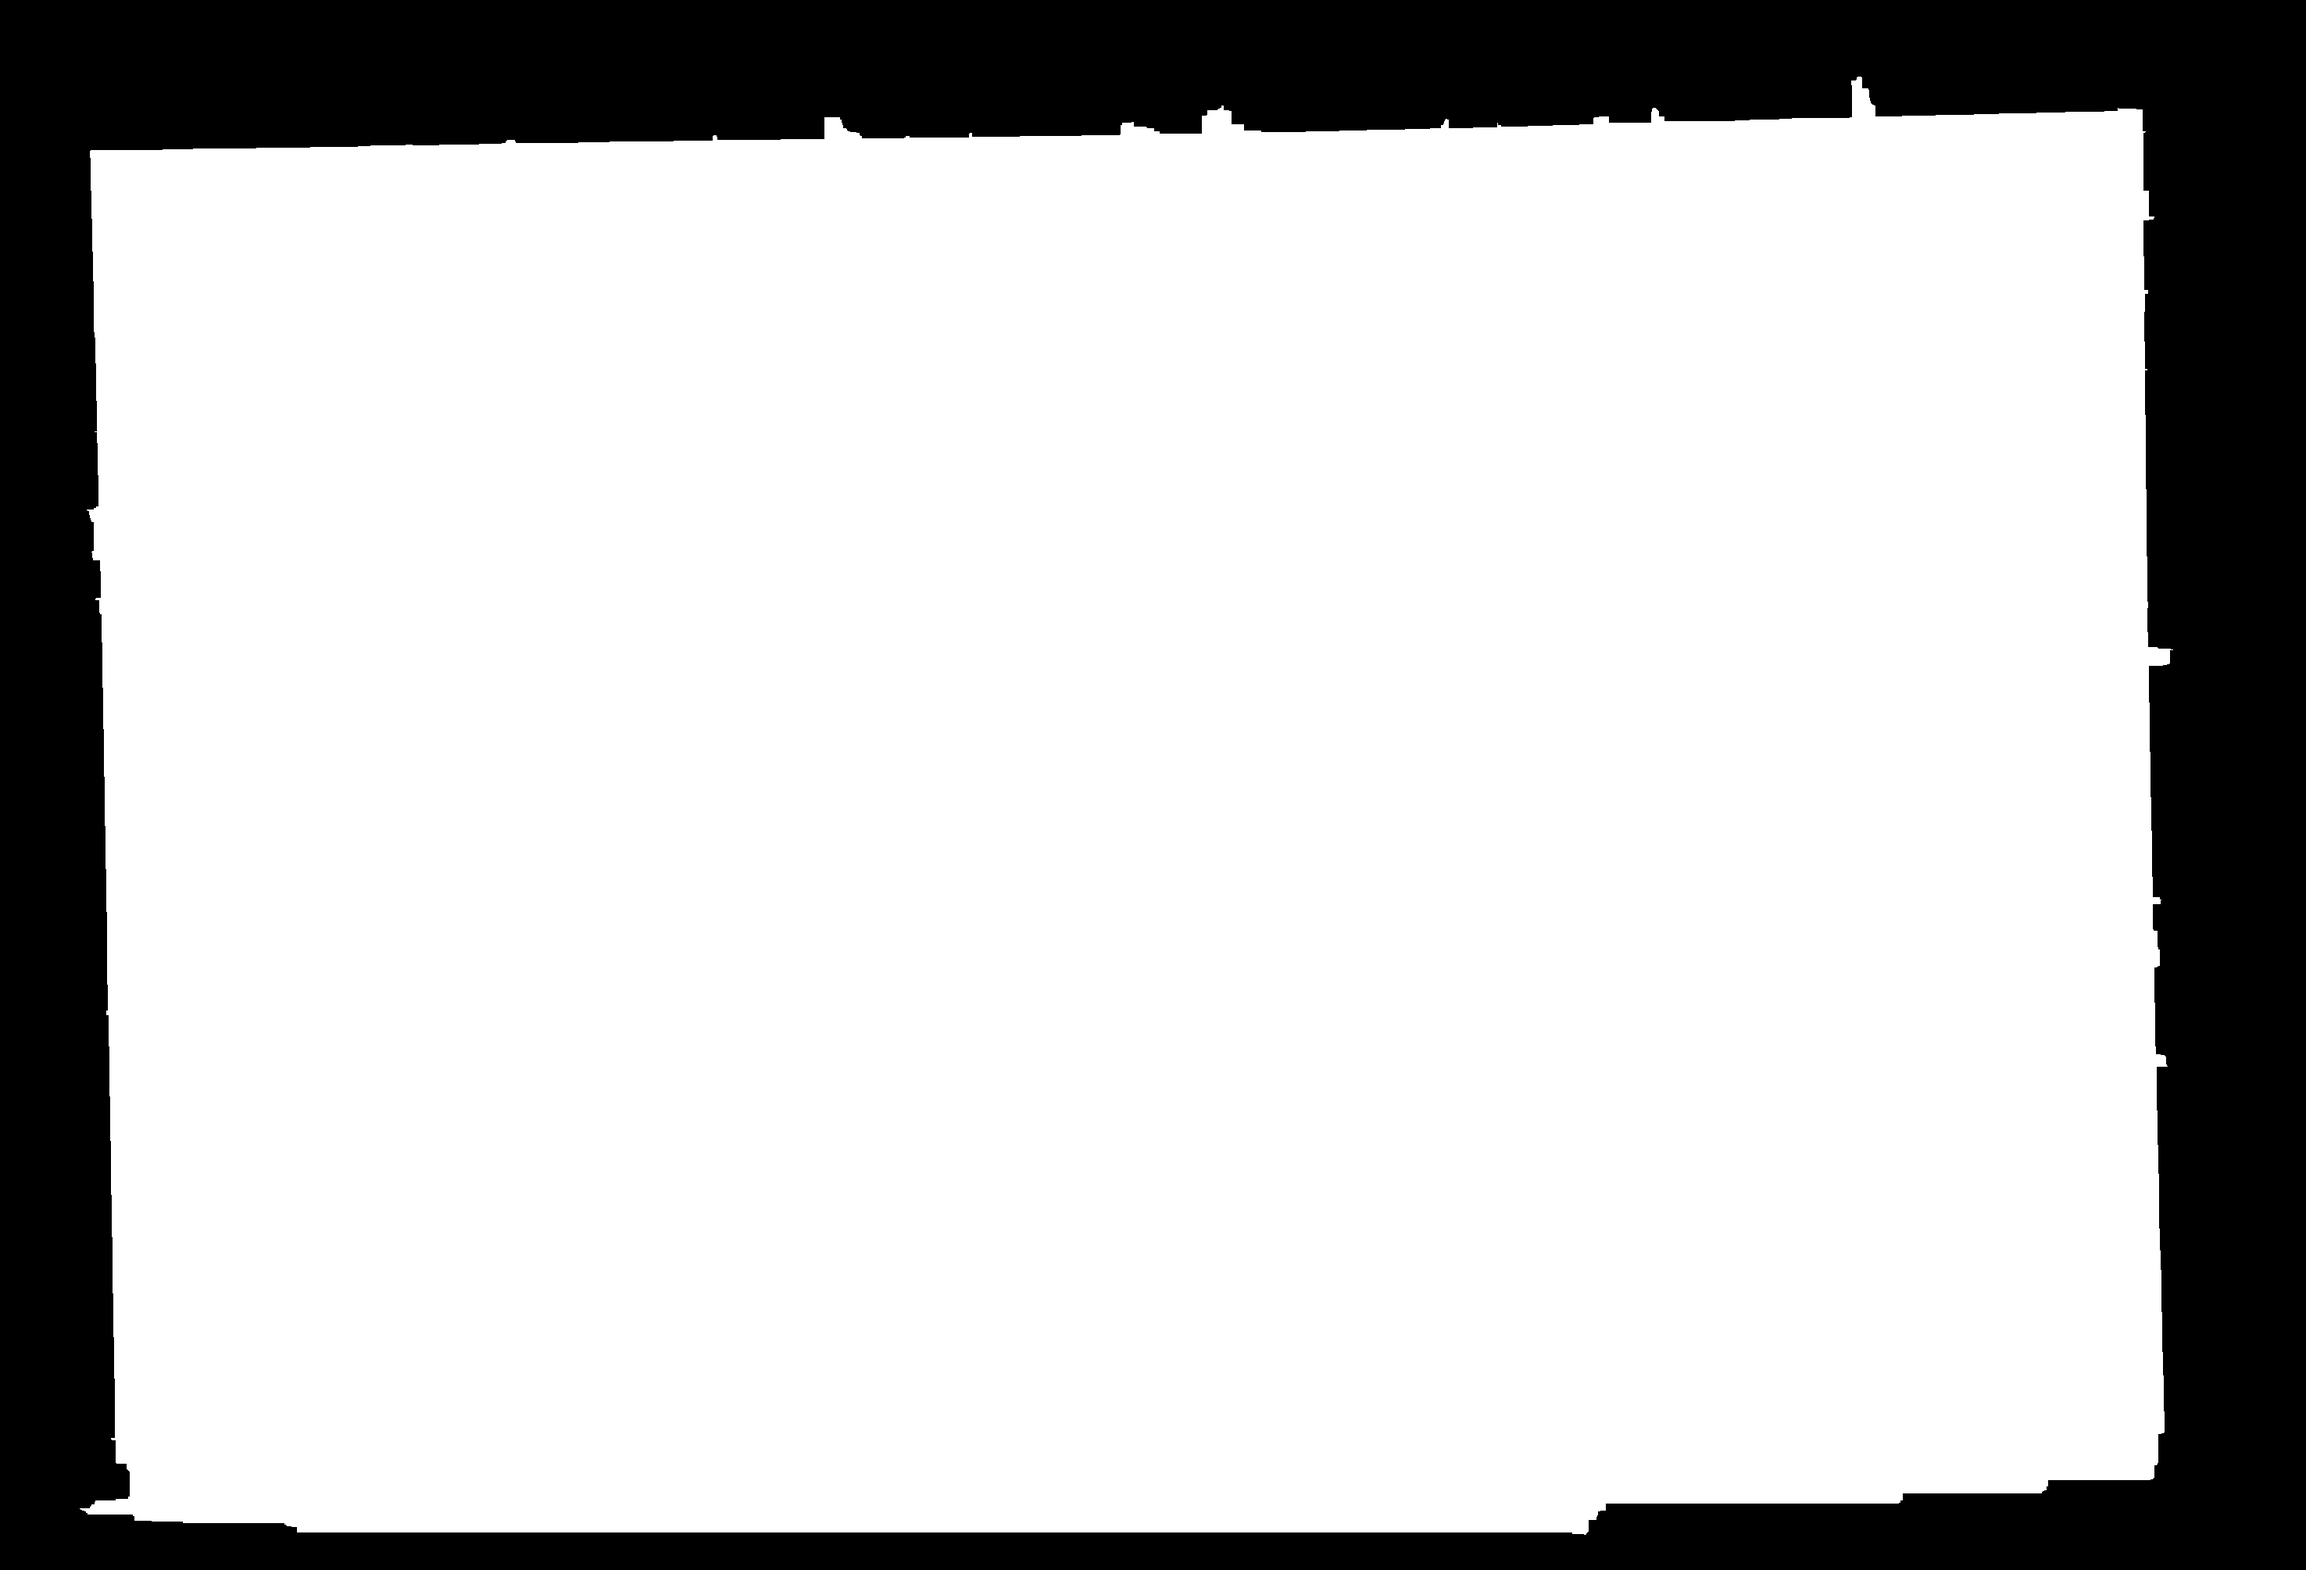
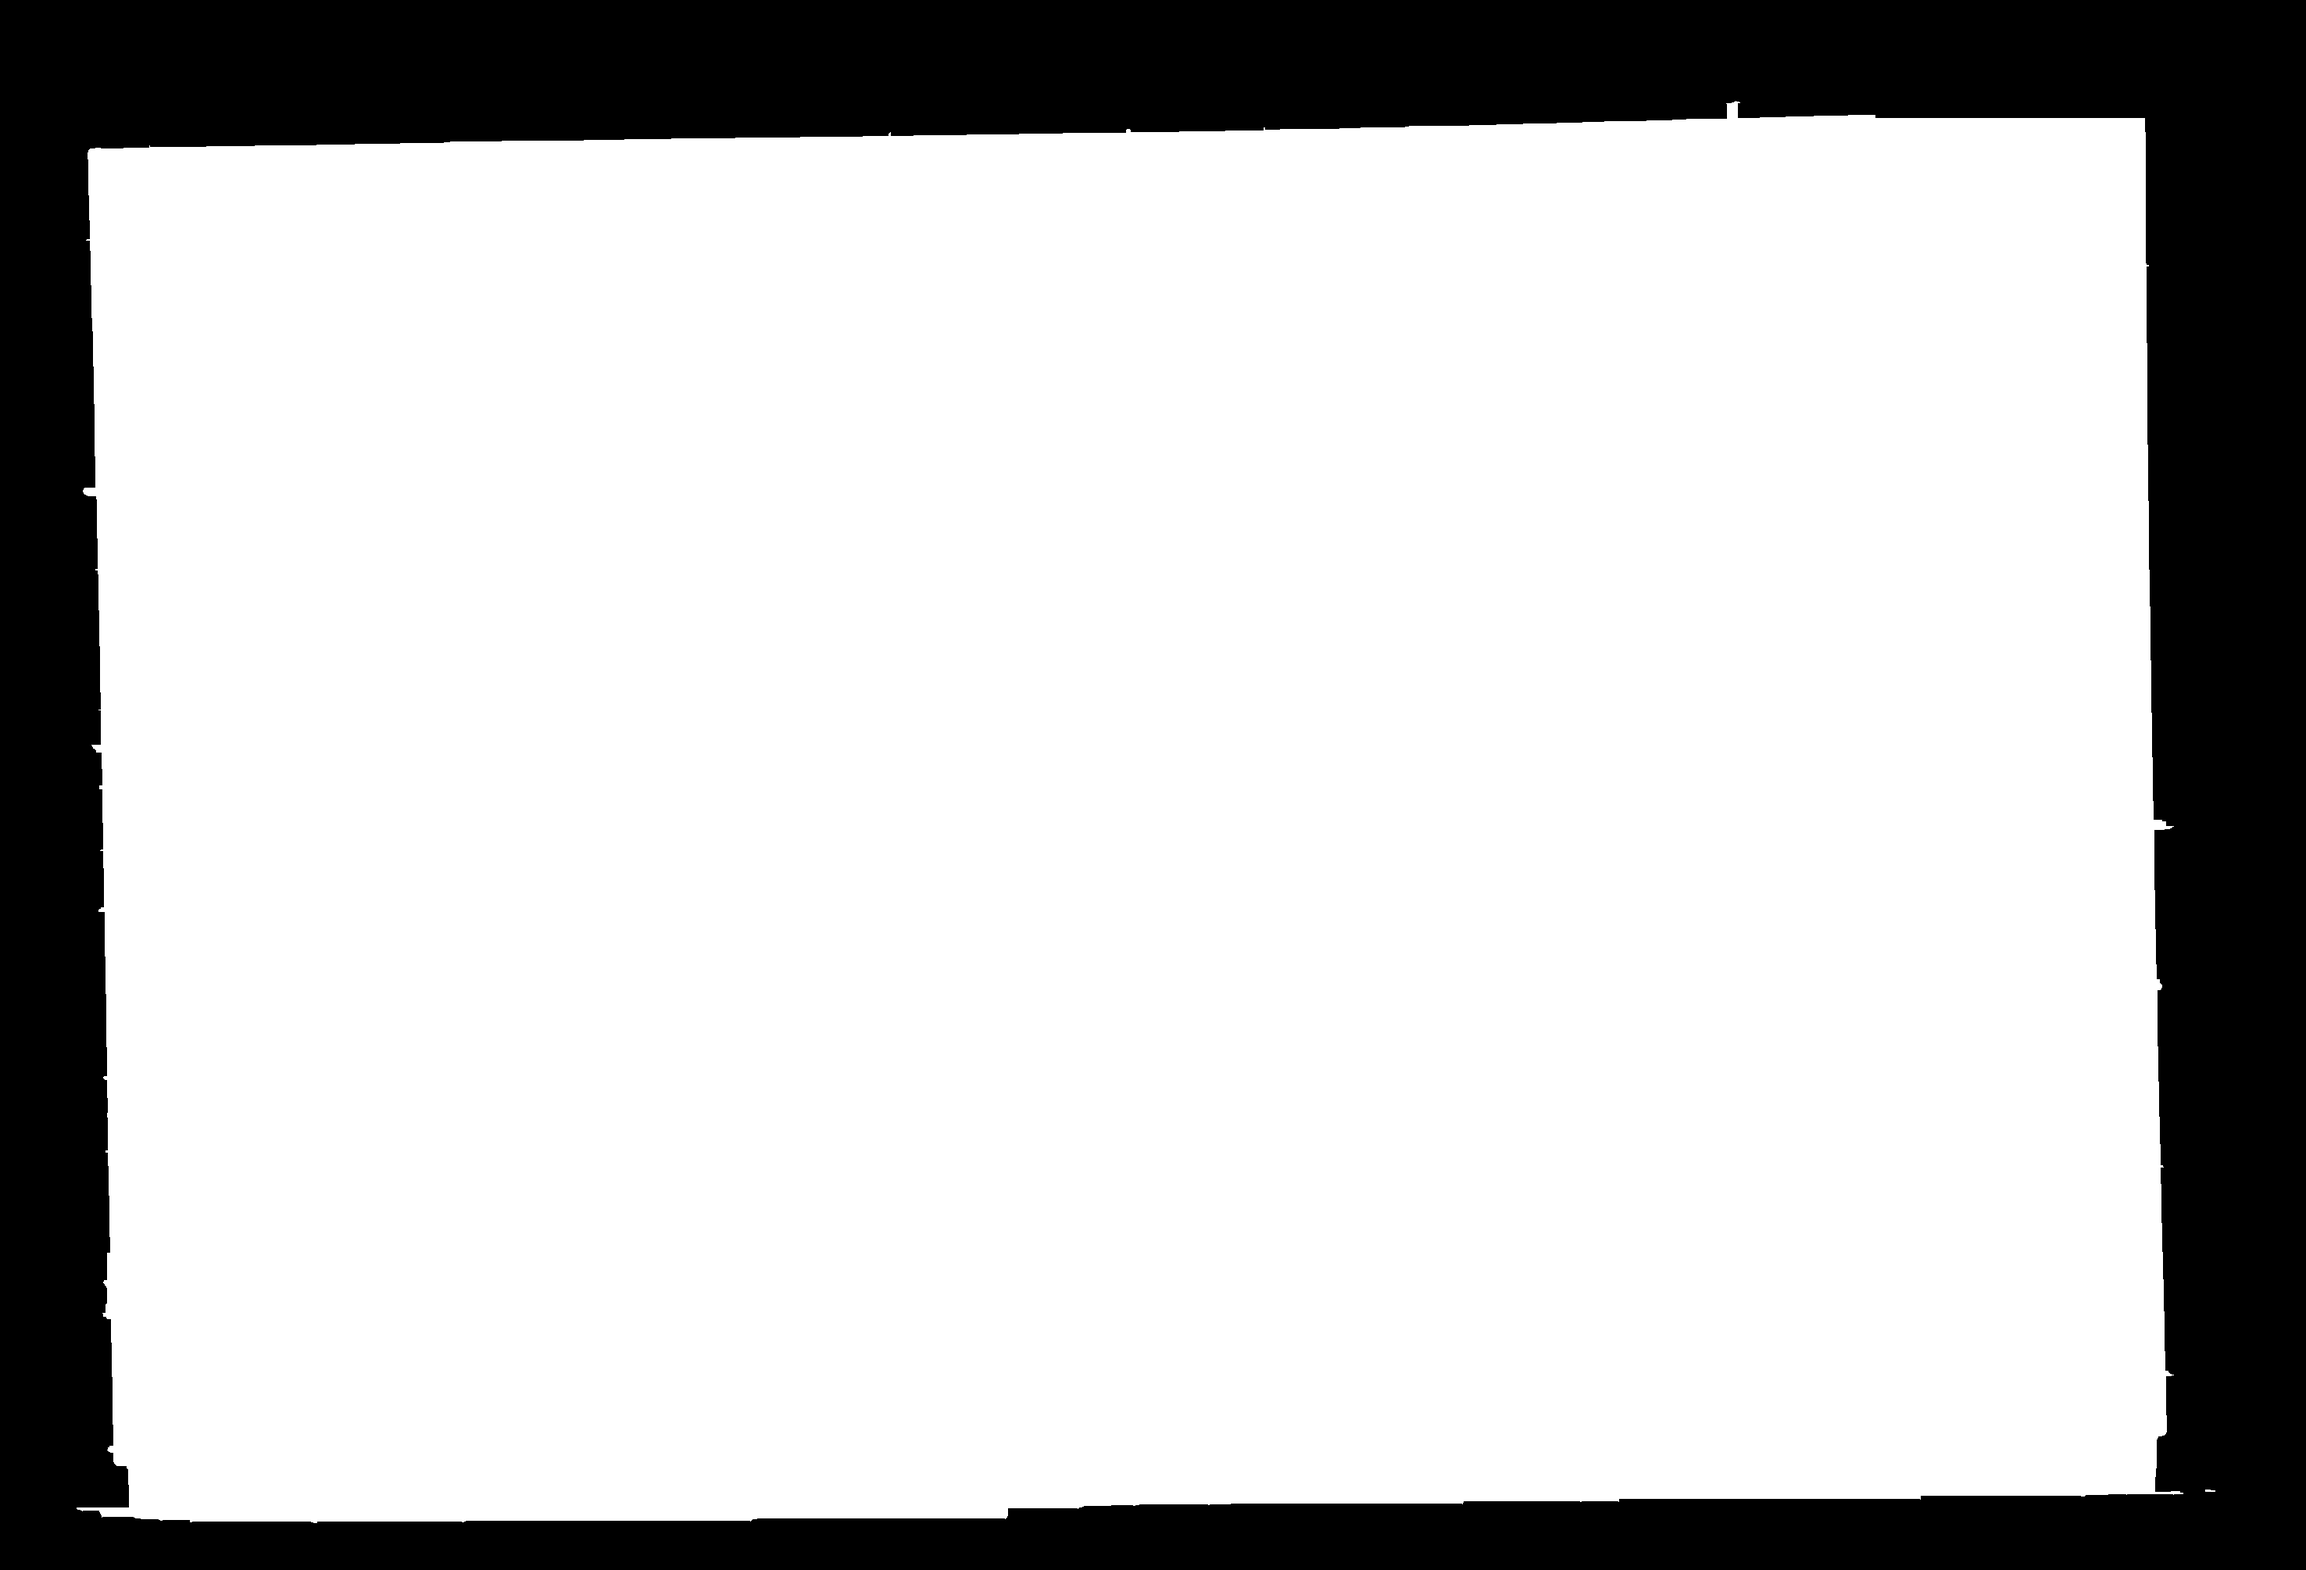
Mask improvements

diff --git a/week4/mask.py b/week4/mask.py
@@ -6,6 +6,7 @@ from evaluation import *
 # Temp imports
 import glob
 
+
 def MSE(a,b,axis):
     """
     This function computes the MSE between a and b along the specified axis.
@@ -139,69 +140,46 @@ def paintings_detection(query_image, mask):
     return(x_value_to_split)
 
 
-def mask_creation_v2(image, mask_path, image_index):
+def mask_creation_v2(image_path, path, idx):
     """
 
     :param image:
-    :param mask_path:
-    :param image_index:
+    :param idx:
     :return:
     """
 
+    image = cv2.imread(image_path)
+    image = cv2.medianBlur(image, 9)
+
     canny_tresh1 = 10
-    canny_tresh2 = 110
+    canny_tresh2 = 30
+    canny_image = cv2.Canny(image, canny_tresh1, canny_tresh2)
+    canny_image = cv2.dilate(canny_image, None, iterations=7)
 
-    image = cv2.imread(image)
-    #grayscale_image = cv2.cvtColor(image, cv2.COLOR_BGR2GRAY)
+    contours, _ = cv2.findContours(canny_image, cv2.RETR_LIST, cv2.CHAIN_APPROX_NONE)
+    contours_info = []
 
-    canny = cv2.Canny(image, canny_tresh1, canny_tresh2)
-    canny = cv2.dilate(canny, None, iterations=2)
-    #canny = cv2.erode(canny, None)
-
-    """cv2.imshow('image_canny', cv2.resize(canny, (int(canny.shape[1] * 0.4), int(canny.shape[0] * 0.4)), cv2.INTER_AREA))
-    cv2.waitKey(0)"""
-
-
-    # -- Find contours in edges, sort by area
-    contour_info = []
-    contours, _ = cv2.findContours(canny, cv2.RETR_LIST, cv2.CHAIN_APPROX_NONE)
     for contour in contours:
-        contour_info.append((
+        contours_info.append((
             contour,
             cv2.contourArea(contour),
         ))
-    contour_info = sorted(contour_info, key=lambda c: c[1], reverse=True)
-    max_contour = contour_info[0]
-    second_contour = contour_info[1]
+    contours_info = sorted(contours_info, key=lambda c: c[1], reverse=True)
+    biggest_contour = contours_info[0]
 
-    # -- Create empty mask, draw filled polygon on it corresponding to largest contour ----
-    # Mask is black, polygon is white
-    mask = np.zeros_like(canny)
+    mask = np.zeros_like(canny_image)
 
-    # Check if there is a second painting in the image
-    #cv2.fillConvexPoly(mask, max_contour[0], [255, 255, 255])
-    """cv2.imshow('image_canny',
-               cv2.resize(mask, (int(mask.shape[1] * 0.4), int(mask.shape[0] * 0.4)),
-                          cv2.INTER_AREA))
-    cv2.waitKey(0)"""
+    for contour in contours_info:
+        if contour[1] > biggest_contour[1]*0.1:
+            cv2.fillConvexPoly(mask, contour[0], [255, 255, 255])
 
-    cv2.fillConvexPoly(mask, max_contour[0], [255, 255, 255])
-    cv2.fillConvexPoly(mask, second_contour[0], [255, 255, 255])
-    if second_contour[1] > max_contour[1]*0.8:
-        cv2.fillConvexPoly(mask, contour_info[2][0], [255, 255, 255])
+    mask = cv2.dilate(mask, None, iterations=2)
+    mask = cv2.erode(mask, None, iterations=9)
 
-    mask = cv2.dilate(mask, None, iterations=10)
-    mask = cv2.erode(mask, None, iterations=15)
+    image_masked = cv2.bitwise_and(image, image, mask=mask)
+    retval, thresh = cv2.threshold(cv2.cvtColor(image_masked, cv2.COLOR_BGR2GRAY), 0, 255, cv2.THRESH_OTSU)
 
-    """cv2.imshow('image_canny2',
-               cv2.resize(mask, (int(mask.shape[1] * 0.4), int(mask.shape[0] * 0.4)),
-                          cv2.INTER_AREA))
-    cv2.waitKey(0)"""
-
-    # save mask image inside the same folder as the image
-    cv2.imwrite('masks/' + str(image_index).zfill(2) + "_mask.png", mask)
-
-    mask[mask > 127] = 255
+    cv2.imwrite('masks/' + str(idx).zfill(2) + "_mask.png", mask)
     return mask
 
 
@@ -213,10 +191,10 @@ if __name__ == '__main__':
     idx = 0
 
     for query in query_filenames:
-        if idx == 4:
-            pass
-            #masks[idx] = mask_creation_v2(query, 'masks/', idx)
-        masks[idx] = mask_creation_v2(query, 'masks/', idx)
+        if idx == 12:
+            #pass
+            masks[idx] = mask_creation_v2(query, 'masks/', idx)
+        #masks[idx] = mask_creation_v3(query, 'masks/', idx)
         idx += 1
 
     if True:
